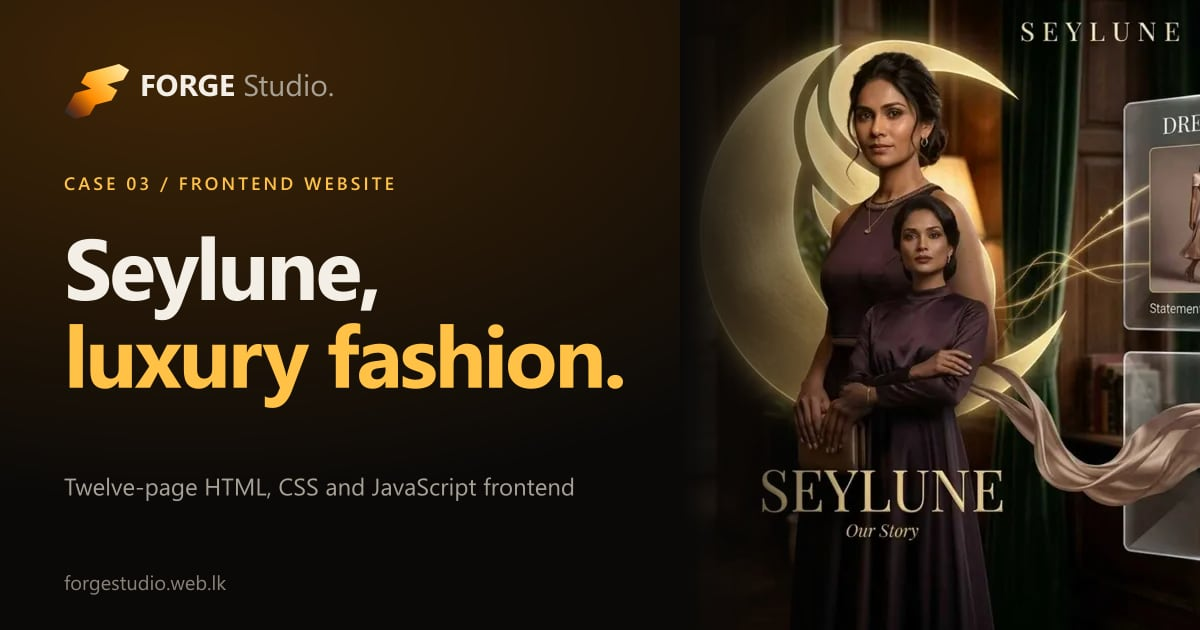
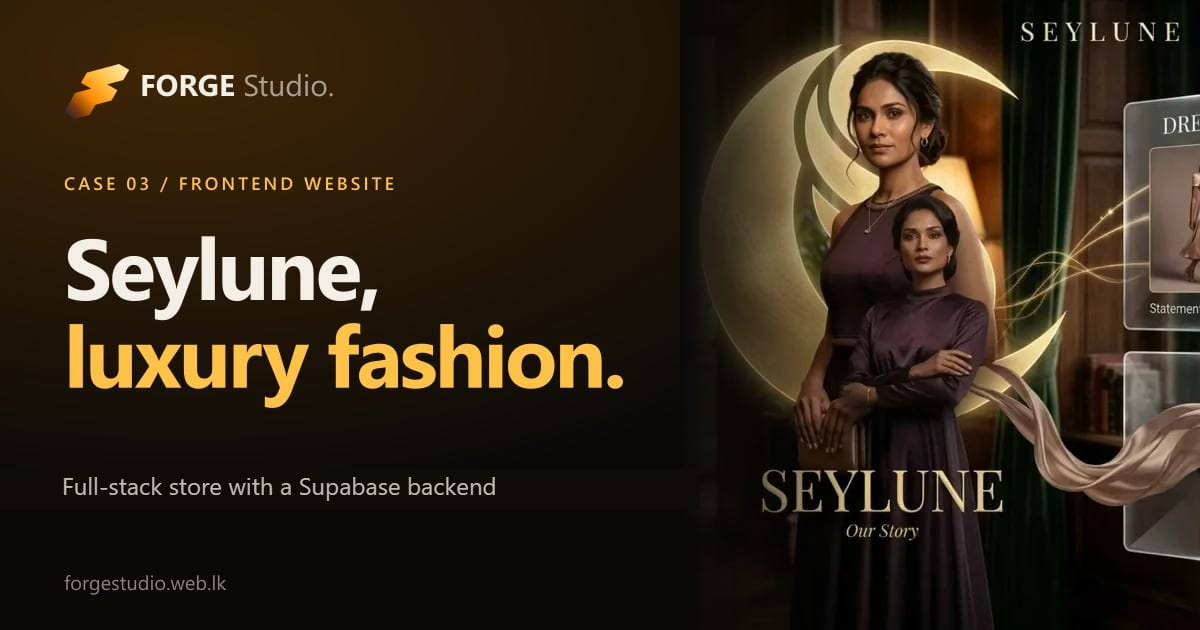
Update the Seylune case study for version two
Seylune came back with a new face in the same colours, a new structure,
Outerwear and Accessories, and a Supabase backend with accounts, orders,
live stock, an admin dashboard and customer profiles. The case study now
tells that story with 27 new screenshots of the live site (personal
details blurred) in place of the old version's.

Also renames it "luxury fashion store" on the home card, resume, the
Vijayism teaser, work.json, llms.txt and the link-preview card.

Changed region(s): [[0.0308, 0.754, 0.4933, 0.8143]]

diff --git a/seylune-frontend-case-study.html b/seylune-frontend-case-study.html
@@ -3,12 +3,12 @@
 <head>
 <meta charset="UTF-8">
 <meta name="viewport" content="width=device-width, initial-scale=1">
-<title>Seylune, luxury fashion frontend · FORGE Studio</title>
-<meta name="description" content="Case study: Seylune, a luxury fashion frontend built in HTML, CSS and JavaScript for a university assignment, extended with search, filters, cart and checkout. Live demo included. By Thinura Anjana, FORGE Studio.">
+<title>Seylune, luxury fashion store · FORGE Studio</title>
+<meta name="description" content="Case study: Seylune, a luxury fashion store first built as a university frontend, then redesigned with a Supabase backend: real accounts, orders, live stock, an admin dashboard and customer profiles. Live demo included. By Thinura Anjana, FORGE Studio.">
 <meta name="theme-color" content="#0A0908">
 <link rel="canonical" href="https://forgestudio.web.lk/seylune-frontend-case-study.html">
-<meta property="og:title" content="Seylune, luxury fashion frontend · FORGE Studio">
-<meta property="og:description" content="Case study: Seylune, a luxury fashion frontend built in HTML, CSS and JavaScript for a university assignment, extended with search, filters, cart and checkout. Live demo included. By Thinura Anjana, FORGE Studio.">
+<meta property="og:title" content="Seylune, luxury fashion store · FORGE Studio">
+<meta property="og:description" content="Case study: Seylune, a luxury fashion store first built as a university frontend, then redesigned with a Supabase backend: real accounts, orders, live stock, an admin dashboard and customer profiles. Live demo included. By Thinura Anjana, FORGE Studio.">
 <meta property="og:image" content="https://forgestudio.web.lk/assets/img/og/seylune.jpg">
 <meta property="og:image:width" content="1200">
 <meta property="og:image:height" content="630">
@@ -29,7 +29,7 @@
 </script>
 <!-- /shared:head-styles -->
 <script type="application/ld+json">
-{"@context":"https://schema.org","@graph":[{"@type":"CreativeWork","name":"Seylune, luxury fashion frontend","description":"Case study: Seylune, a luxury fashion frontend built in HTML, CSS and JavaScript for a university assignment, extended with search, filters, cart and checkout. Live demo included. By Thinura Anjana, FORGE Studio.","genre":"Frontend web design","url":"https://forgestudio.web.lk/seylune-frontend-case-study.html","image":"https://forgestudio.web.lk/assets/img/og/seylune.jpg","inLanguage":"en","creator":{"@type":"Person","@id":"https://forgestudio.web.lk/#thinura","name":"Thinura Anjana","url":"https://forgestudio.web.lk/"},"isPartOf":{"@type":"WebSite","@id":"https://forgestudio.web.lk/#site","name":"FORGE Studio","url":"https://forgestudio.web.lk/"}},{"@type":"BreadcrumbList","itemListElement":[{"@type":"ListItem","position":1,"name":"FORGE Studio","item":"https://forgestudio.web.lk/"},{"@type":"ListItem","position":2,"name":"Work","item":"https://forgestudio.web.lk/#work"},{"@type":"ListItem","position":3,"name":"Seylune, luxury fashion frontend","item":"https://forgestudio.web.lk/seylune-frontend-case-study.html"}]}]}
+{"@context":"https://schema.org","@graph":[{"@type":"CreativeWork","name":"Seylune, luxury fashion store","description":"Case study: Seylune, a luxury fashion store first built as a university frontend, then redesigned with a Supabase backend: real accounts, orders, live stock, an admin dashboard and customer profiles. Live demo included. By Thinura Anjana, FORGE Studio.","genre":"Full-stack web design","url":"https://forgestudio.web.lk/seylune-frontend-case-study.html","image":"https://forgestudio.web.lk/assets/img/og/seylune.jpg","inLanguage":"en","creator":{"@type":"Person","@id":"https://forgestudio.web.lk/#thinura","name":"Thinura Anjana","url":"https://forgestudio.web.lk/"},"isPartOf":{"@type":"WebSite","@id":"https://forgestudio.web.lk/#site","name":"FORGE Studio","url":"https://forgestudio.web.lk/"}},{"@type":"BreadcrumbList","itemListElement":[{"@type":"ListItem","position":1,"name":"FORGE Studio","item":"https://forgestudio.web.lk/"},{"@type":"ListItem","position":2,"name":"Work","item":"https://forgestudio.web.lk/#work"},{"@type":"ListItem","position":3,"name":"Seylune, luxury fashion store","item":"https://forgestudio.web.lk/seylune-frontend-case-study.html"}]}]}
 </script>
 <!-- shared:head-theme work -->
 <link rel="stylesheet" href="assets/css/forge-mode.css?v=20261013a">
@@ -113,26 +113,26 @@
 <section class="cs-hero" data-chapter="Brief">
   <div class="wrap cs-hero-grid">
     <div>
-      <span class="label" data-reveal><b>Case 03</b> / Frontend website / 2026</span>
-      <h1 data-lines>Seylune,<br><span class="gold">luxury fashion frontend.</span></h1>
-      <p class="lede" data-reveal>A fictional fashion e-commerce site built for a university web development assignment: Sri Lankan-inspired naming, moonlit luxury, curated browsing and a full HTML, CSS and JavaScript shopping interface.</p>
-      <ul class="tags" data-reveal style="margin-top:22px"><li>Frontend</li><li>E-commerce UI</li><li>HTML / CSS / JS</li><li>Academic</li><li>AI-assisted</li></ul>
+      <span class="label" data-reveal><b>Case 03</b> / Full-stack website / 2026</span>
+      <h1 data-lines>Seylune,<br><span class="gold">luxury fashion store.</span></h1>
+      <p class="lede" data-reveal>A fictional Sri Lankan-inspired fashion house. It began as a university frontend, then came back as version two: a new face in the same moonlit colours, a new structure, and a Supabase backend with real accounts, orders, live stock, an admin dashboard and customer profiles.</p>
+      <ul class="tags" data-reveal style="margin-top:22px"><li>Full-stack</li><li>Supabase</li><li>E-commerce UI</li><li>Admin dashboard</li><li>HTML / CSS / JS</li><li>AI-assisted</li></ul>
       <div class="ignite-actions" data-reveal style="margin-top:28px">
         <a class="btn" href="https://its-anjana03.github.io/seylune/" target="_blank" rel="noopener" data-magnetic>View the live demo <span class="arr" aria-hidden="true">↗</span></a>
         <a class="btn ghost" href="https://github.com/its-anjana03/seylune" target="_blank" rel="noopener" data-magnetic>Source on GitHub <span class="arr" aria-hidden="true">↗</span></a>
       </div>
       <div class="cs-meta" data-reveal-group>
-        <div data-reveal-item><span class="label">Type</span><b>Concept brand site</b></div>
-        <div data-reveal-item><span class="label">Output</span><b>Frontend only</b></div>
-        <div data-reveal-item><span class="label">Pages</span><b>8 planned, 11 built</b></div>
-        <div data-reveal-item><span class="label">Role</span><b>Direction, build, polish</b></div>
+        <div data-reveal-item><span class="label">Type</span><b>Concept fashion store</b></div>
+        <div data-reveal-item><span class="label">Stack</span><b>HTML, CSS, JS + Supabase</b></div>
+        <div data-reveal-item><span class="label">Catalogue</span><b>40 pieces, 6 collections</b></div>
+        <div data-reveal-item><span class="label">Role</span><b>Direction, design, build</b></div>
       </div>
     </div>
     <div class="cs-hero-visual">
       <div class="cs-stack" data-reveal>
-        <figure class="s1" data-zoom data-title="Seylune homepage"><img src="assets/img/seylune/seylune-home-01.webp" width="1800" height="888" alt="Seylune homepage desktop screenshot" data-parallax></figure>
-        <figure class="s2" data-zoom data-title="Dresses category"><img src="assets/img/seylune/seylune-dresses.webp" width="1800" height="888" alt="Seylune dresses category screenshot"></figure>
-        <figure class="s3" data-zoom data-title="Cart page"><img src="assets/img/seylune/seylune-cart.webp" width="1800" height="888" alt="Seylune cart page screenshot"></figure>
+        <figure class="s1" data-zoom data-title="Seylune home · our story"><img src="assets/img/seylune/seylune-home-story.webp" width="1800" height="888" alt="Seylune story scene: a model in plum before the gold crescent mark" style="object-position:0 50%" data-parallax></figure>
+        <figure class="s2" data-zoom data-title="Product page on a phone"><img src="assets/img/seylune/seylune-phone-product.webp" width="448" height="970" alt="Seylune product page for the Noor Tailored Blazer on a phone"></figure>
+        <figure class="s3" data-zoom data-title="Admin dashboard"><img src="assets/img/seylune/seylune-admin-dashboard-lower.webp" width="1800" height="888" alt="Seylune admin dashboard: best sellers, orders by status and sizes running out" style="object-position:0 100%"></figure>
       </div>
     </div>
   </div>
@@ -142,15 +142,15 @@
   <div class="wrap cs-split">
     <div class="cs-prose">
       <span class="label" data-reveal><b>01</b> Project context</span>
-      <h2 class="h2" data-lines>A fictional brand, a real frontend exercise.</h2>
-      <p data-reveal>The assignment required a company website. We chose fashion because the Joey Clothing project had already given us a head start on categories, visual direction and customer flow.</p>
-      <p data-reveal>Seylune is <strong>not an existing business</strong>. It is a concept brand made for the assignment, focused on frontend structure, page consistency, visual storytelling and a complete browsing experience, without a backend checkout or database.</p>
+      <h2 class="h2" data-lines>A class website that became a working store.</h2>
+      <p data-reveal>Version one was built for the SLIIT Internet Application Development assignment: a fashion frontend with no backend, where the cart and orders lived only in the browser.</p>
+      <p data-reveal>Once the marking was done, I rebuilt it. New face, same colours, a new structure, two new collections and <strong>a real backend</strong>: sign-up and sign-in, orders saved in a database, stock that goes down when someone buys, and an admin side to run the shop. Seylune is still <strong>not a real business</strong>. No payment is taken and nothing is shipped.</p>
     </div>
     <div class="cs-cards" style="--cols:2" data-reveal-group>
-      <div class="cs-card" data-reveal-item><span class="k">Truth 01</span><h3>Academic concept</h3><p>Invented for the IAD web development group assignment, not presented as a client.</p></div>
-      <div class="cs-card" data-reveal-item><span class="k">Truth 02</span><h3>Frontend only</h3><p>HTML, CSS, JavaScript, responsive browser access and interface interactions.</p></div>
-      <div class="cs-card" data-reveal-item><span class="k">Truth 03</span><h3>AI-assisted</h3><p>Claude helped with code; Gemini and Nano Banana supported model imagery.</p></div>
-      <div class="cs-card" data-reveal-item><span class="k">Truth 04</span><h3>Solo final push</h3><p>The final build, assembly, structure and polish were handled under time pressure.</p></div>
+      <div class="cs-card" data-reveal-item><span class="k">Truth 01</span><h3>Concept brand</h3><p>Invented for a university assignment, never presented as a client.</p></div>
+      <div class="cs-card" data-reveal-item><span class="k">Truth 02</span><h3>Real backend</h3><p>Supabase accounts, orders, stock and messages, protected by database rules.</p></div>
+      <div class="cs-card" data-reveal-item><span class="k">Truth 03</span><h3>No real money</h3><p>Checkout places an order but takes no payment, and nothing ships.</p></div>
+      <div class="cs-card" data-reveal-item><span class="k">Truth 04</span><h3>AI-assisted</h3><p>Claude helped with code; Gemini and Nano Banana made the model imagery.</p></div>
     </div>
   </div>
 </section>
@@ -175,20 +175,21 @@
 <section class="cs-sec" data-chapter="Visual">
   <div class="wrap">
     <div class="cs-head">
-      <div><span class="label" data-reveal><b>03</b> Visual direction</span><h2 class="h2" data-lines>Most fashion sites go white. Seylune went dark.</h2></div>
-      <p data-reveal>Dark purple, antique gold, moon tones and interior-style model imagery give it an editorial, limited feel. Motion stays restrained so the brand reads as calm, not noisy.</p>
+      <div><span class="label" data-reveal><b>03</b> Visual direction</span><h2 class="h2" data-lines>Same moonlit colours. A new face.</h2></div>
+      <p data-reveal>The palette stayed exactly as it was. Everything around it changed: engraved capitals in Tenor Sans, quiet Manrope for reading, square-cut edges, and antique gold kept for one job only, marking what is chosen, what costs money and what to do next.</p>
     </div>
-    <div class="cs-swatches" style="--cols:5" data-reveal-group>
-      <div data-reveal-item style="background:#100A14;color:#F4EFE6">Deep Night<span>#100A14</span></div>
-      <div data-reveal-item style="background:#2B1832;color:#F4EFE6">Dark Purple<span>#2B1832</span></div>
-      <div data-reveal-item style="background:#4B2C50;color:#F4EFE6">Plum Accent<span>#4B2C50</span></div>
-      <div data-reveal-item style="background:#CDB47A;color:#100A14">Antique Gold<span>#CDB47A</span></div>
-      <div data-reveal-item style="background:#F5E6B8;color:#100A14">Moon Cream<span>#F5E6B8</span></div>
+    <div class="cs-swatches" style="--cols:6" data-reveal-group>
+      <div data-reveal-item style="background:#0F0D10;color:#F4EEE8">Deep<span>#0F0D10</span></div>
+      <div data-reveal-item style="background:#151116;color:#F4EEE8">Night<span>#151116</span></div>
+      <div data-reveal-item style="background:#221A24;color:#F4EEE8">Plum<span>#221A24</span></div>
+      <div data-reveal-item style="background:#B9A8AE;color:#0F0D10">Mist<span>#B9A8AE</span></div>
+      <div data-reveal-item style="background:#C6A36B;color:#0F0D10">Antique Gold<span>#C6A36B</span></div>
+      <div data-reveal-item style="background:#F4EEE8;color:#0F0D10">Cream<span>#F4EEE8</span></div>
     </div>
     <div class="cs-cards" style="--cols:3;margin-top:14px" data-reveal-group>
-      <div class="cs-card" data-reveal-item><span class="k">Decision 01</span><h3>Premium darkness</h3><p>The dark base separates Seylune from white fashion stores and makes the gold feel richer.</p></div>
-      <div class="cs-card" data-reveal-item><span class="k">Decision 02</span><h3>Generated models</h3><p>Model visuals created with Gemini and Nano Banana, in premium interiors.</p></div>
-      <div class="cs-card" data-reveal-item><span class="k">Decision 03</span><h3>No animation noise</h3><p>Controlled motion keeps it luxury editorial rather than playful.</p></div>
+      <div class="cs-card" data-reveal-item><span class="k">Decision 01</span><h3>Rooms, not pages</h3><p>Every inner page splits in two: one half holds still while the other moves.</p></div>
+      <div class="cs-card" data-reveal-item><span class="k">Decision 02</span><h3>Liquid photographs</h3><p>Pictures melt from one piece to the next in WebGL, with a plain image fallback.</p></div>
+      <div class="cs-card" data-reveal-item><span class="k">Decision 03</span><h3>The clothes lead</h3><p>No sale banners or fake urgency. The interface recedes around the photography.</p></div>
     </div>
   </div>
 </section>
@@ -196,15 +197,21 @@
 <section class="cs-sec" data-chapter="Structure">
   <div class="wrap">
     <div class="cs-head">
-      <div><span class="label" data-reveal><b>04</b> Website structure</span><h2 class="h2" data-lines>Planned eight pages. Shipped eleven.</h2></div>
-      <p data-reveal>Home, New Arrivals, Dresses, Tops, Bottoms, Search Results, Product, Cart, Checkout, Account and About. One product template serves all 24 pieces.</p>
+      <div><span class="label" data-reveal><b>04</b> New structure</span><h2 class="h2" data-lines>A house of scenes and rooms.</h2></div>
+      <p data-reveal>Home became six full-screen scenes, one flick of the wheel each. Every other page is a room. Fifteen pages now: home, collections, new arrivals, five categories, product, search, cart, checkout, account, about and admin.</p>
     </div>
-    <div class="cs-steps" style="--cols:4" data-reveal-group>
+    <div class="cs-steps" style="--cols:5" data-reveal-group>
       <span class="tl-fill-x" aria-hidden="true"></span>
-      <div class="cs-step" data-reveal-item><span class="k">Route 01</span><h3>Enter</h3><p>The homepage sets the brand mood and the limited collection.</p></div>
-      <div class="cs-step" data-reveal-item><span class="k">Route 02</span><h3>Browse</h3><p>Curated categories feel selective, not overwhelming.</p></div>
-      <div class="cs-step" data-reveal-item><span class="k">Route 03</span><h3>Inspect</h3><p>Product pages support a closer look at each item.</p></div>
-      <div class="cs-step" data-reveal-item><span class="k">Route 04</span><h3>Support</h3><p>Search, cart, account and about complete the shell.</p></div>
+      <div class="cs-step" data-reveal-item><span class="k">Route 01</span><h3>Enter</h3><p>Six scenes set the mood before any shopping starts.</p></div>
+      <div class="cs-step" data-reveal-item><span class="k">Route 02</span><h3>Browse</h3><p>A numbered index; pointing at a name melts the photo into it.</p></div>
+      <div class="cs-step" data-reveal-item><span class="k">Route 03</span><h3>Inspect</h3><p>Gallery, zoom, size guide and live stock for every size.</p></div>
+      <div class="cs-step" data-reveal-item><span class="k">Route 04</span><h3>Buy</h3><p>Bag drawer, cart and a checkout that saves a real order.</p></div>
+      <div class="cs-step" data-reveal-item><span class="k">Route 05</span><h3>Run</h3><p>The admin room handles orders, pieces, stock and messages.</p></div>
+    </div>
+    <div class="cs-phones" data-reveal style="margin-top:var(--s-16)">
+      <figure data-zoom data-title="Outerwear on a phone"><img src="assets/img/seylune/seylune-phone-outerwear.webp" width="448" height="970" alt="Seylune Outerwear collection as a two-column lookbook on a phone" loading="lazy"></figure>
+      <figure data-zoom data-title="Home on a phone"><img src="assets/img/seylune/seylune-phone-home.webp" width="448" height="970" alt="Seylune home scene on a phone" loading="lazy"></figure>
+      <figure data-zoom data-title="Product on a phone"><img src="assets/img/seylune/seylune-phone-product.webp" width="448" height="970" alt="Seylune Noor Tailored Blazer product page on a phone" loading="lazy"></figure>
     </div>
   </div>
 </section>
@@ -212,32 +219,100 @@
 <section class="cs-sec" data-chapter="Homepage">
   <div class="wrap">
     <div class="cs-head">
-      <div><span class="label" data-reveal><b>05</b> Homepage</span><h2 class="h2" data-lines>A home page that works like a brand entrance.</h2></div>
-      <p data-reveal>It introduces the brand, the moon identity, selected collections and the atmosphere before pushing anyone into a category.</p>
+      <div><span class="label" data-reveal><b>05</b> Homepage</span><h2 class="h2" data-lines>Six scenes instead of a scrolling page.</h2></div>
+      <p data-reveal>Each scene dissolves into the next: the entrance, new arrivals, the categories, the story, the signature edits and the newsletter.</p>
     </div>
     <div class="cs-gallery" style="--cols:2">
-      <figure class="cs-figure wide"><div class="frame" data-img-reveal data-zoom data-title="Homepage · hero"><img src="assets/img/seylune/seylune-home-01.webp" width="1800" height="888" alt="Seylune homepage hero" loading="lazy"></div><figcaption><b>Brand entrance</b><span>Hero, moon symbol, collection cards</span></figcaption></figure>
-      <figure class="cs-figure" data-reveal><div class="frame" data-zoom data-title="Homepage · story"><img src="assets/img/seylune/seylune-home-02.webp" width="1800" height="888" alt="Seylune homepage story section" loading="lazy"></div><figcaption><b>Story section</b><span>Luxury narrative</span></figcaption></figure>
-      <figure class="cs-figure" data-reveal><div class="frame" data-zoom data-title="Homepage · collection"><img src="assets/img/seylune/seylune-home-03.webp" width="1800" height="888" alt="Seylune homepage collection section" loading="lazy"></div><figcaption><b>Collection preview</b><span>Curated product mood</span></figcaption></figure>
-      <figure class="cs-figure" data-reveal><div class="frame" data-zoom data-title="Homepage · editorial"><img src="assets/img/seylune/seylune-home-04.webp" width="1800" height="888" alt="Seylune homepage editorial section" loading="lazy"></div><figcaption><b>Editorial block</b><span>Premium model imagery</span></figcaption></figure>
-      <figure class="cs-figure" data-reveal><div class="frame" data-zoom data-title="Homepage · lower journey"><img src="assets/img/seylune/seylune-home-05.webp" width="1800" height="887" alt="Seylune homepage lower section" loading="lazy"></div><figcaption><b>Lower journey</b><span>Trust, navigation, closing</span></figcaption></figure>
+      <figure class="cs-figure wide"><div class="frame" data-img-reveal data-zoom data-title="Home · entrance"><img src="assets/img/seylune/seylune-home-hero.webp" width="1800" height="888" alt="Seylune home entrance scene" loading="lazy"></div><figcaption><b>Entrance</b><span>Luxury in every line</span></figcaption></figure>
+      <figure class="cs-figure" data-reveal><div class="frame" data-zoom data-title="Home · new arrivals"><img src="assets/img/seylune/seylune-home-arrivals.webp" width="1800" height="888" alt="Seylune home new arrivals scene with one-tap sizes" loading="lazy"></div><figcaption><b>New arrivals</b><span>One tap on a size adds it to the bag</span></figcaption></figure>
+      <figure class="cs-figure" data-reveal><div class="frame" data-zoom data-title="Home · shop by category"><img src="assets/img/seylune/seylune-home-collections.webp" width="1800" height="888" alt="Seylune home shop by category scene" loading="lazy"></div><figcaption><b>Shop by category</b><span>Five names, one photograph</span></figcaption></figure>
+      <figure class="cs-figure" data-reveal><div class="frame" data-zoom data-title="Home · our story"><img src="assets/img/seylune/seylune-home-story.webp" width="1800" height="888" alt="Seylune home story scene with the crescent mark" loading="lazy"></div><figcaption><b>Our story</b><span>Sey and Lune</span></figcaption></figure>
+      <figure class="cs-figure" data-reveal><div class="frame" data-zoom data-title="Home · signature edits"><img src="assets/img/seylune/seylune-home-edits.webp" width="1800" height="888" alt="Seylune home signature edits scene" loading="lazy"></div><figcaption><b>Signature edits</b><span>Evening, tailoring, moonlit muse</span></figcaption></figure>
     </div>
   </div>
 </section>
 
-<section class="cs-sec" data-chapter="Categories">
+<section class="cs-sec" data-chapter="Collections">
   <div class="wrap">
     <div class="cs-head">
-      <div><span class="label" data-reveal><b>06</b> Category strategy</span><h2 class="h2" data-lines>Fewer categories, more curated.</h2></div>
-      <p data-reveal>New Arrivals, Dresses, Tops and Bottoms keep the journey simple and the collection feeling limited. Search, cart and about make it a real storefront.</p>
+      <div><span class="label" data-reveal><b>06</b> Collections</span><h2 class="h2" data-lines>Two new rooms: Outerwear and Accessories.</h2></div>
+      <p data-reveal>Sixteen new pieces joined Dresses, Tops and Bottoms, for forty in all. A Collections page gathers the six rooms, and every room has filters for size, colour and price.</p>
     </div>
     <div class="cs-gallery" style="--cols:3">
-      <figure class="cs-figure" data-reveal><div class="frame" data-zoom data-title="New Arrivals"><img src="assets/img/seylune/seylune-new-arrivals-01.webp" width="1800" height="888" alt="Seylune New Arrivals page" loading="lazy"></div><figcaption><b>New Arrivals</b><span>Fresh collection entry</span></figcaption></figure>
-      <figure class="cs-figure" data-reveal><div class="frame" data-zoom data-title="Dresses"><img src="assets/img/seylune/seylune-dresses.webp" width="1800" height="888" alt="Seylune Dresses page" loading="lazy"></div><figcaption><b>Dresses</b><span>Statement silhouettes</span></figcaption></figure>
-      <figure class="cs-figure" data-reveal><div class="frame" data-zoom data-title="Tops"><img src="assets/img/seylune/seylune-tops.webp" width="1800" height="888" alt="Seylune Tops page" loading="lazy"></div><figcaption><b>Tops</b><span>Curated essentials</span></figcaption></figure>
-      <figure class="cs-figure" data-reveal><div class="frame" data-zoom data-title="Bottoms"><img src="assets/img/seylune/seylune-bottoms.webp" width="1800" height="888" alt="Seylune Bottoms page" loading="lazy"></div><figcaption><b>Bottoms</b><span>Limited fashion path</span></figcaption></figure>
-      <figure class="cs-figure" data-reveal><div class="frame" data-zoom data-title="Search results"><img src="assets/img/seylune/seylune-search-results.webp" width="1800" height="887" alt="Seylune search results page" loading="lazy"></div><figcaption><b>Search results</b><span>Discovery support</span></figcaption></figure>
-      <figure class="cs-figure" data-reveal><div class="frame" data-zoom data-title="About"><img src="assets/img/seylune/seylune-about-01.webp" width="1800" height="888" alt="Seylune About page" loading="lazy"></div><figcaption><b>About</b><span>Brand explanation</span></figcaption></figure>
+      <figure class="cs-figure" data-reveal><div class="frame" data-zoom data-title="Collections"><img src="assets/img/seylune/seylune-collections.webp" width="1800" height="888" alt="Seylune Collections page listing six collections" loading="lazy"></div><figcaption><b>Collections</b><span>Six rooms of the house</span></figcaption></figure>
+      <figure class="cs-figure" data-reveal><div class="frame" data-zoom data-title="Outerwear"><img src="assets/img/seylune/seylune-outerwear.webp" width="1800" height="888" alt="Seylune Outerwear collection page" loading="lazy"></div><figcaption><b>Outerwear</b><span>New: coats, blazers, jackets</span></figcaption></figure>
+      <figure class="cs-figure" data-reveal><div class="frame" data-zoom data-title="Accessories"><img src="assets/img/seylune/seylune-accessories.webp" width="1800" height="888" alt="Seylune Accessories collection page" loading="lazy"></div><figcaption><b>Accessories</b><span>New: bags, pearls, silk, leather</span></figcaption></figure>
+      <figure class="cs-figure" data-reveal><div class="frame" data-zoom data-title="Product · Lunaire Long Wool Coat"><img src="assets/img/seylune/seylune-product-coat.webp" width="1800" height="888" alt="Seylune product page for the Lunaire Long Wool Coat" loading="lazy"></div><figcaption><b>Product page</b><span>Gallery, sizes, size guide</span></figcaption></figure>
+      <figure class="cs-figure" data-reveal><div class="frame" data-zoom data-title="Product · Crescent Satin Clutch"><img src="assets/img/seylune/seylune-product-clutch.webp" width="1800" height="888" alt="Seylune product page for the Crescent Satin Clutch" loading="lazy"></div><figcaption><b>One-size pieces</b><span>Accessories without a size chart</span></figcaption></figure>
+      <figure class="cs-figure" data-reveal><div class="frame" data-zoom data-title="Search results"><img src="assets/img/seylune/seylune-search.webp" width="1800" height="888" alt="Seylune search results for satin" loading="lazy"></div><figcaption><b>Search</b><span>Ranked results, category chips</span></figcaption></figure>
+    </div>
+  </div>
+</section>
+
+<section class="cs-sec" data-chapter="Shopping">
+  <div class="wrap">
+    <div class="cs-head">
+      <div><span class="label" data-reveal><b>07</b> Shopping flow</span><h2 class="h2" data-lines>From the menu to a saved order.</h2></div>
+      <p data-reveal>A full-screen menu with search, a bag drawer that opens beside the piece, a cart that keeps sizes apart, and a checkout that asks you to sign in so the order follows you to any device.</p>
+    </div>
+    <div class="cs-gallery" style="--cols:2">
+      <figure class="cs-figure" data-reveal><div class="frame" data-zoom data-title="Menu"><img src="assets/img/seylune/seylune-menu.webp" width="1800" height="888" alt="Seylune full-screen menu" loading="lazy"></div><figcaption><b>Menu room</b><span>Names brighten, the photo melts</span></figcaption></figure>
+      <figure class="cs-figure" data-reveal><div class="frame" data-zoom data-title="Bag drawer"><img src="assets/img/seylune/seylune-bag.webp" width="1800" height="888" alt="Seylune bag drawer open beside a product" loading="lazy"></div><figcaption><b>Bag drawer</b><span>Added without leaving the piece</span></figcaption></figure>
+      <figure class="cs-figure" data-reveal><div class="frame" data-zoom data-title="Cart"><img src="assets/img/seylune/seylune-cart.webp" width="1800" height="888" alt="Seylune cart with two pieces and the order summary" loading="lazy"></div><figcaption><b>Cart</b><span>Free delivery over Rs. 10,000</span></figcaption></figure>
+      <figure class="cs-figure" data-reveal><div class="frame" data-zoom data-title="Checkout"><img src="assets/img/seylune/seylune-checkout-signin.webp" width="1800" height="888" alt="Seylune checkout asking the shopper to sign in" loading="lazy"></div><figcaption><b>Checkout</b><span>Sign in to finish the order</span></figcaption></figure>
+    </div>
+  </div>
+</section>
+
+<section class="cs-sec" data-chapter="Backend">
+  <div class="wrap">
+    <div class="cs-head">
+      <div><span class="label" data-reveal><b>08</b> The backend</span><h2 class="h2" data-lines>A static site with a real database behind it.</h2></div>
+      <p data-reveal>The pages still run on GitHub Pages. The browser talks straight to Supabase, and rules inside the database decide what each visitor may see or change. The browser never sends a price: the database looks it up itself.</p>
+    </div>
+    <div class="cs-cards" style="--cols:3" data-reveal-group>
+      <div class="cs-card" data-reveal-item><span class="k">Supabase 01</span><h3>Real accounts</h3><p>Sign up, sign in and password reset through Supabase Auth.</p></div>
+      <div class="cs-card" data-reveal-item><span class="k">Supabase 02</span><h3>Orders priced by the database</h3><p>One database function checks every field, prices the order and takes the pieces out of stock.</p></div>
+      <div class="cs-card" data-reveal-item><span class="k">Supabase 03</span><h3>Live stock per size</h3><p>Sold-out sizes are struck through, and a sale price must sit below the price.</p></div>
+      <div class="cs-card" data-reveal-item><span class="k">Supabase 04</span><h3>Row Level Security</h3><p>Customers read only their own orders; only admins can change status, stock or prices.</p></div>
+      <div class="cs-card" data-reveal-item><span class="k">Supabase 05</span><h3>Messages and newsletter</h3><p>Anyone can write in, a few times every ten minutes; only admins can read them.</p></div>
+      <div class="cs-card" data-reveal-item><span class="k">Supabase 06</span><h3>Safe fallback</h3><p>If the database can't be reached, the shop falls back to its built-in catalogue.</p></div>
+    </div>
+  </div>
+</section>
+
+<section class="cs-sec" data-chapter="Admin">
+  <div class="wrap">
+    <div class="cs-head">
+      <div><span class="label" data-reveal><b>09</b> Admin dashboard</span><h2 class="h2" data-lines>A back room to run the shop.</h2></div>
+      <p data-reveal>Only accounts on the admin team can open it. Six tabs cover the whole shop: sales at a glance, orders, pieces, stock, customers and messages.</p>
+    </div>
+    <div class="cs-gallery" style="--cols:2">
+      <figure class="cs-figure wide" data-reveal><div class="frame" data-zoom data-title="Admin · dashboard"><img src="assets/img/seylune/seylune-admin-dashboard.webp" width="1800" height="888" alt="Seylune admin dashboard" loading="lazy"></div><figcaption><b>Dashboard</b><span>Revenue by day, orders by status, best sellers, sizes running out</span></figcaption></figure>
+      <figure class="cs-figure" data-reveal><div class="frame" data-zoom data-title="Admin · best sellers and stock"><img src="assets/img/seylune/seylune-admin-dashboard-lower.webp" width="1800" height="888" alt="Seylune admin dashboard: best sellers, orders by status and sizes running out" loading="lazy"></div><figcaption><b>At a glance</b><span>Best sellers, status, sizes running out</span></figcaption></figure>
+      <figure class="cs-figure" data-reveal><div class="frame" data-zoom data-title="Admin · orders"><img src="assets/img/seylune/seylune-admin-orders.webp" width="1800" height="888" alt="Seylune admin orders with one order opened, showing its pieces and status buttons" loading="lazy"></div><figcaption><b>Orders</b><span>Ship, deliver or cancel; packing slip</span></figcaption></figure>
+      <figure class="cs-figure" data-reveal><div class="frame" data-zoom data-title="Admin · edit a piece"><img src="assets/img/seylune/seylune-admin-products.webp" width="1800" height="888" alt="Seylune admin editor for the Noira Satin Dress" loading="lazy"></div><figcaption><b>Pieces</b><span>Add, edit, photos, sale prices</span></figcaption></figure>
+      <figure class="cs-figure" data-reveal><div class="frame" data-zoom data-title="Admin · messages"><img src="assets/img/seylune/seylune-admin-messages.webp" width="1800" height="888" alt="Seylune admin messages inbox" loading="lazy"></div><figcaption><b>Messages</b><span>Reply by email, mark done, delete</span></figcaption></figure>
+    </div>
+    <div class="cs-cards" style="--cols:4;margin-top:14px" data-reveal-group>
+      <div class="cs-card" data-reveal-item><span class="k">Track</span><h3>Order status</h3><p>Processing, shipped, delivered. Cancelling puts the pieces back into stock.</p></div>
+      <div class="cs-card" data-reveal-item><span class="k">Add and edit</span><h3>The catalogue</h3><p>New pieces, photo uploads, sale prices, and archiving old ones.</p></div>
+      <div class="cs-card" data-reveal-item><span class="k">Stock</span><h3>Low or sold out</h3><p>Every size of every piece, with a filter for what is low or sold out.</p></div>
+      <div class="cs-card" data-reveal-item><span class="k">Inbox</span><h3>Messages</h3><p>The contact form lands here, sorted into new and done.</p></div>
+    </div>
+  </div>
+</section>
+
+<section class="cs-sec" data-chapter="Profile">
+  <div class="wrap">
+    <div class="cs-head">
+      <div><span class="label" data-reveal><b>10</b> Customer profile</span><h2 class="h2" data-lines>An account that remembers you.</h2></div>
+      <p data-reveal>Members keep their details, which fill in checkout for them, change their password, follow each order's status and come back to the pieces they saved. Only they can read their own profile.</p>
+    </div>
+    <div class="cs-gallery" style="--cols:3">
+      <figure class="cs-figure" data-reveal><div class="frame" data-zoom data-title="Account · sign in"><img src="assets/img/seylune/seylune-account-signin.webp" width="1800" height="888" alt="Seylune sign in and create account page" loading="lazy"></div><figcaption><b>Sign in</b><span>Or create an account</span></figcaption></figure>
+      <figure class="cs-figure" data-reveal><div class="frame" data-zoom data-title="Account · profile"><img src="assets/img/seylune/seylune-account-profile.webp" width="1800" height="888" alt="Seylune member profile with details and password" loading="lazy"></div><figcaption><b>Profile</b><span>Details and password</span></figcaption></figure>
+      <figure class="cs-figure" data-reveal><div class="frame" data-zoom data-title="Account · my orders"><img src="assets/img/seylune/seylune-account-orders.webp" width="1800" height="888" alt="Seylune member order list with processing, shipped and delivered statuses" loading="lazy"></div><figcaption><b>My orders</b><span>Track each order's status</span></figcaption></figure>
     </div>
   </div>
 </section>
@@ -245,27 +320,27 @@
 <section class="cs-sec" data-chapter="Workflow">
   <div class="wrap">
     <div class="cs-head">
-      <div><span class="label" data-reveal><b>07</b> Workflow and tools</span><h2 class="h2" data-lines>AI as an assistant, not a fake credit.</h2></div>
-      <p data-reveal>Claude helped generate and iterate frontend code; Gemini and Nano Banana generated model imagery. Direction, page decisions, structure, edits, judgement, assembly and polish were done by hand in VS Code.</p>
+      <div><span class="label" data-reveal><b>11</b> Workflow and tools</span><h2 class="h2" data-lines>AI as an assistant, not a fake credit.</h2></div>
+      <p data-reveal>Claude helped write and iterate the code, including the database rules; Gemini and Nano Banana generated the model imagery. Direction, structure, page decisions, edits and polish were mine.</p>
     </div>
     <div class="cs-cards" style="--cols:4" data-reveal-group>
-      <div class="cs-card" data-reveal-item><span class="k">Tool 01</span><h3>HTML</h3><p>Page structure, navigation, product sections, forms and content.</p></div>
-      <div class="cs-card" data-reveal-item><span class="k">Tool 02</span><h3>CSS</h3><p>The luxury theme, responsive layout, spacing, type, grids and states.</p></div>
-      <div class="cs-card" data-reveal-item><span class="k">Tool 03</span><h3>JavaScript</h3><p>The interactions the assignment required and shopping behaviour.</p></div>
-      <div class="cs-card" data-reveal-item><span class="k">Tool 04</span><h3>AI workflow</h3><p>Claude for code iteration, Gemini and Nano Banana for visuals.</p></div>
+      <div class="cs-card" data-reveal-item><span class="k">Tool 01</span><h3>HTML, CSS, JS</h3><p>Plain pages with no build step, one shared catalogue and shared shop logic.</p></div>
+      <div class="cs-card" data-reveal-item><span class="k">Tool 02</span><h3>GSAP and WebGL</h3><p>Scene dissolves and liquid photographs, all switched off for reduced motion.</p></div>
+      <div class="cs-card" data-reveal-item><span class="k">Tool 03</span><h3>Supabase</h3><p>Postgres, Auth, Storage and Row Level Security behind a static site.</p></div>
+      <div class="cs-card" data-reveal-item><span class="k">Tool 04</span><h3>AI workflow</h3><p>Claude for code, Gemini and Nano Banana for visuals.</p></div>
     </div>
   </div>
 </section>
 
 <section class="cs-statement" data-chapter="Reflection">
   <div class="wrap">
-    <span class="label" data-reveal><b>08</b> Reflection</span>
-    <p class="manifesto" data-scrub-words style="margin-top:28px">Seylune became more than a class website. It tested how fast a concept brand can become <span data-gold>a structured, consistent, presentation-ready frontend.</span></p>
+    <span class="label" data-reveal><b>12</b> Reflection</span>
+    <p class="manifesto" data-scrub-words style="margin-top:28px">Version one proved Seylune could look like a fashion house. Version two proves it can <span data-gold>work like a shop, from the first scene to the back room.</span></p>
     <div class="cs-cards" style="--cols:4;margin-top:var(--s-16)" data-reveal-group>
-      <div class="cs-card" data-reveal-item><span class="k">01</span><h3>Concept matters</h3><p>Name, colour, categories, imagery and flow all follow one idea.</p></div>
-      <div class="cs-card" data-reveal-item><span class="k">02</span><h3>Limited feels premium</h3><p>Fewer categories made shopping feel curated.</p></div>
-      <div class="cs-card" data-reveal-item><span class="k">03</span><h3>AI needs direction</h3><p>Tools helped only because the mood and page plan were clear.</p></div>
-      <div class="cs-card" data-reveal-item><span class="k">04</span><h3>Next step</h3><p>Checkout, filtering, search, accessibility fixes and a hosted demo are now live. Next: a real backend and payments.</p></div>
+      <div class="cs-card" data-reveal-item><span class="k">01</span><h3>Keep what works</h3><p>The palette and the name carried over; the structure did not need to.</p></div>
+      <div class="cs-card" data-reveal-item><span class="k">02</span><h3>Trust the database</h3><p>Prices, stock and permissions are checked where a visitor can't edit them.</p></div>
+      <div class="cs-card" data-reveal-item><span class="k">03</span><h3>Design the back room too</h3><p>The admin side got the same care as the storefront.</p></div>
+      <div class="cs-card" data-reveal-item><span class="k">04</span><h3>Next step</h3><p>Email confirmation for new accounts and a real payment step.</p></div>
     </div>
   </div>
 </section>

diff --git a/index.html b/index.html
@@ -378,10 +378,10 @@
         <a href="seylune-frontend-case-study.html" class="case-media"><img src="assets/img/seylune/seylune-thumbnail.webp" width="1600" height="1200" alt="Seylune luxury fashion website" loading="lazy"></a>
         <div class="case-row">
           <span class="case-n">03</span>
-          <h3><a href="seylune-frontend-case-study.html">Seylune <span>/ luxury fashion frontend</span></a></h3>
-          <span class="case-meta">Frontend website · 2026</span>
-          <p class="case-desc">A fictional luxury fashion store built for a web development assignment: a dark purple and gold visual system and a complete frontend across home, category, product, cart, account, search and about pages.</p>
-          <ul class="tags"><li>HTML / CSS / JS</li><li>E-commerce UI</li><li>Academic</li></ul>
+          <h3><a href="seylune-frontend-case-study.html">Seylune <span>/ luxury fashion store</span></a></h3>
+          <span class="case-meta">Full-stack website · 2026</span>
+          <p class="case-desc">A fictional luxury fashion store, first built for a web development assignment and now redesigned in the same moonlit colours, with a Supabase backend: real accounts, orders, live stock, an admin dashboard and customer profiles.</p>
+          <ul class="tags"><li>HTML / CSS / JS</li><li>Supabase</li><li>E-commerce UI</li></ul>
         </div>
       </article>
 

diff --git a/resume.html b/resume.html
@@ -263,7 +263,7 @@
             <h3>Portfolio write-ups<small>Full process for each project</small></h3>
             <ul>
               <li><a class="link-u" href="joey-mobile-case-study.html">Joey Clothing, mobile UX redesign</a></li>
-              <li><a class="link-u" href="seylune-frontend-case-study.html">Seylune, luxury fashion frontend</a></li>
+              <li><a class="link-u" href="seylune-frontend-case-study.html">Seylune, luxury fashion store</a></li>
               <li><a class="link-u" href="vijayism-piece.html">30 Years of Vijayism, tribute portrait</a></li>
               <li><a class="link-u" href="avengers-process.html">Avengers: Doomsday, poster process</a></li>
               <li><a class="link-u" href="rolex-design.html">Rolex Day-Date 40, award-winning study</a></li>

diff --git a/vijayism-piece.html b/vijayism-piece.html
@@ -258,7 +258,7 @@
 <a class="next-case wrap" href="seylune-frontend-case-study.html" data-cursor-label="Next">
   <span class="label"><b>Next project</b></span>
   <span class="t">Seylune<span>.</span></span>
-  <span class="sub">Luxury fashion frontend →</span>
+  <span class="sub">Luxury fashion store →</span>
   <span class="peek"><img src="assets/img/seylune/seylune-thumbnail.webp" width="1600" height="1200" alt="" loading="lazy"></span>
 </a>
 <div class="wrap back-row">

diff --git a/README.md b/README.md
@@ -13,7 +13,7 @@ A static site (plain HTML, CSS and JavaScript, no build step) hosted on GitHub P
 ├── resume.html                        Web resume
 ├── joey-mobile-case-study.html        Case 01 · Joey Clothing (UX)
 ├── vijayism-piece.html                Case 02 · 30 Years of Vijayism (with the hidden-details hunt)
-├── seylune-frontend-case-study.html   Case 03 · Seylune (frontend)
+├── seylune-frontend-case-study.html   Case 03 · Seylune (full-stack store)
 ├── avengers-process.html              Case 04 · Avengers: Doomsday (with before/after slider)
 ├── rolex-design.html                  Case 05 · Rolex Day-Date 40
 ├── forge-identity.html                Case 06 · FORGE Studio identity
